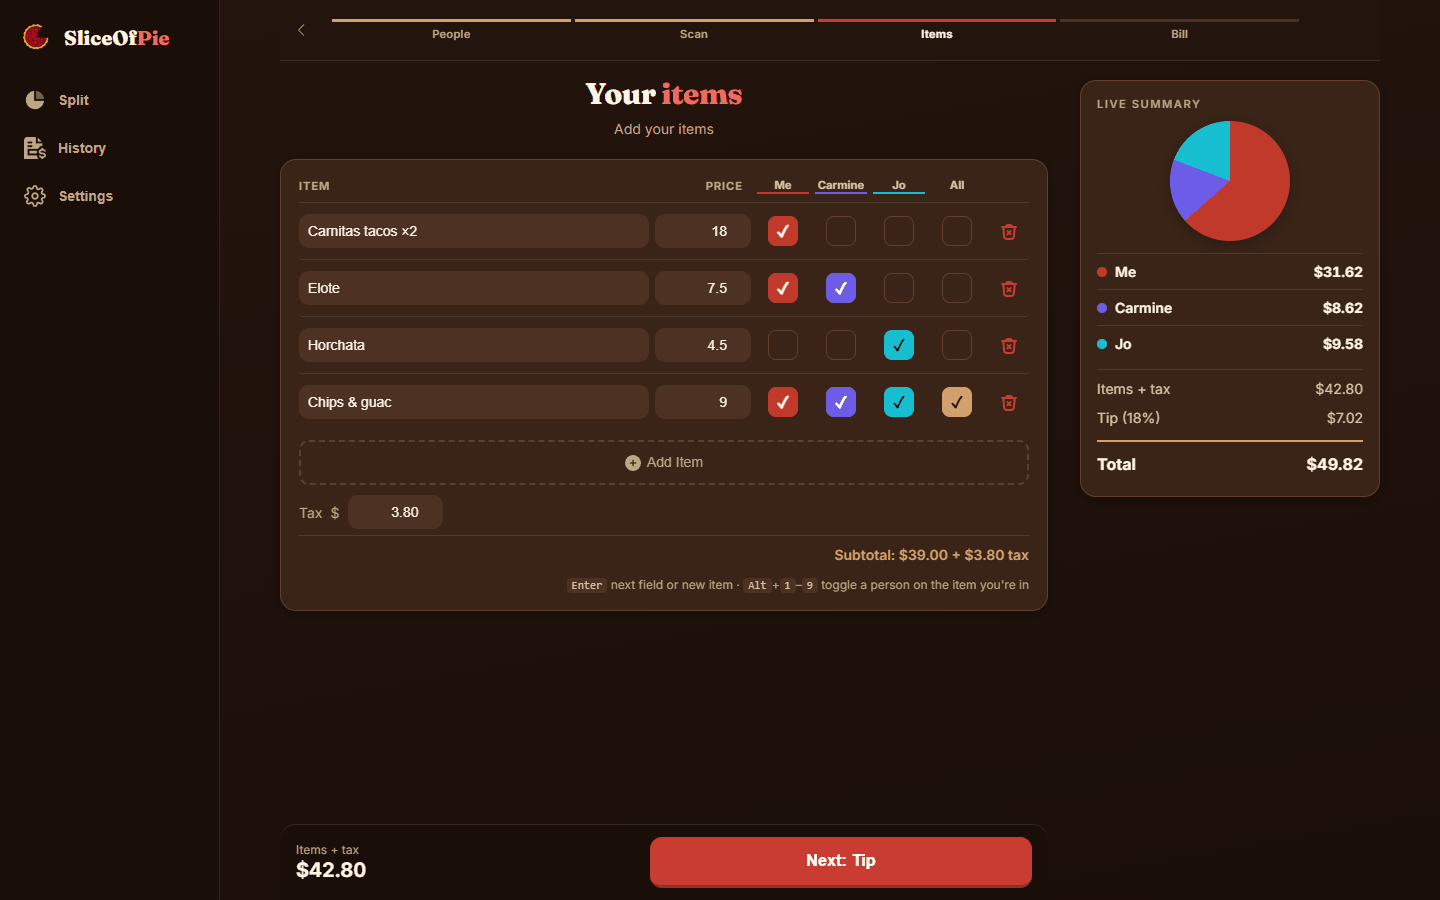
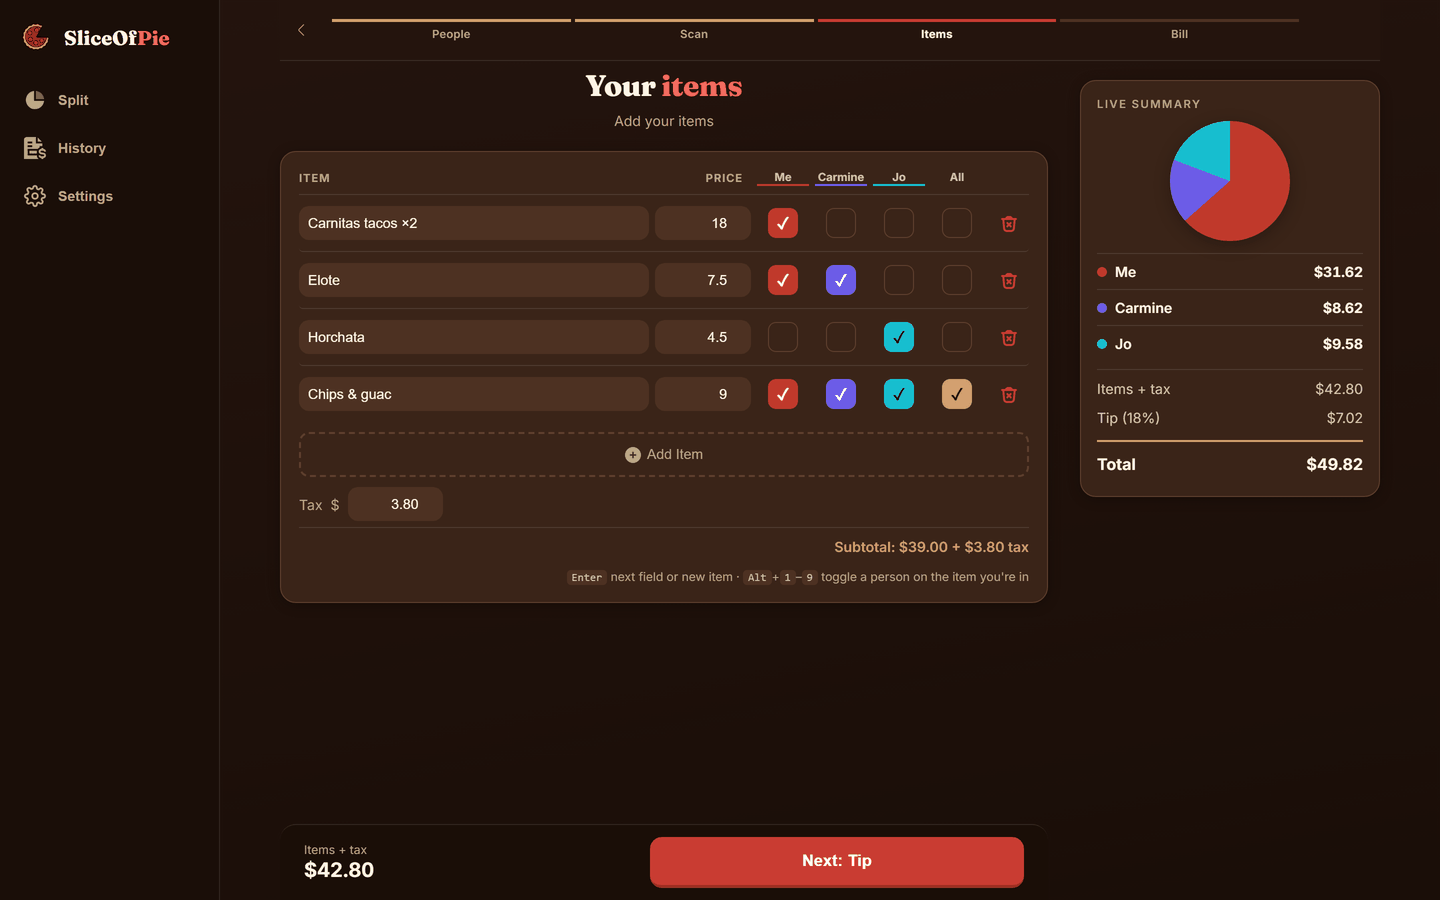
docs: new screenshots and demo GIF, badges, and an accurate privacy note
- Screenshots and the demo GIF retaken from the current app: the saved bill
  shows the Paid toggles, Share on a phone, and the desktop shot is
  captured at 2x for smoother text. Same sizes as before.
- CI, release and license badges at the top.
- Privacy: browsers that can't run PaddleOCR fall back to Tesseract.js,
  which downloads its code and language data from public CDNs; the photo
  still never leaves the device.
- Getting started opens localhost right after `npm run dev`; the test
  command's comment and the project tree are up to date.

diff --git a/README.md b/README.md
@@ -1,5 +1,9 @@
 # SliceOfPie
 
+[![CI](https://github.com/hansvidaure24/SliceOfPie/actions/workflows/ci.yml/badge.svg)](https://github.com/hansvidaure24/SliceOfPie/actions/workflows/ci.yml)
+[![Release](https://img.shields.io/github/v/release/hansvidaure24/SliceOfPie)](https://github.com/hansvidaure24/SliceOfPie/releases)
+[![License: MIT](https://img.shields.io/badge/license-MIT-blue)](LICENSE)
+
 Split bills without the awkward math. Snap a receipt, assign items, add tip, and share who owes what — all offline, all on-device.
 
 **[Live Demo](https://slice-of-pie-xi.vercel.app/)**
@@ -84,7 +88,7 @@ The parser, photo checks, OCR engines and live camera are separate chunks loaded
 ## Testing
 
 ```bash
-npm test            # Vitest: bill math, draft resume, receipt parsing, OCR fixtures, headers
+npm test            # Vitest: money math, storage, receipt parsing, updates, backups, headers
 npm run build
 npm run test:e2e    # Playwright: phone (Pixel 7) and desktop, against the built app
 ```
@@ -105,11 +109,11 @@ npm install
 npm run dev
 ```
 
+Then open `http://localhost:5173` in your browser.
+
 `npm run dev` and `npm run build` first run `scripts/fetch-ocr-assets.mjs`, which downloads the pinned OCR models (~13 MB, SHA-256 checked) into `public/ocr/`. That folder is gitignored.
 
 `npm run bench` opens an OCR benchmark page comparing model sets and Tesseract on synthetic receipt images (see `bench/README.md`).
-
-Open `http://localhost:5173` in your browser.
 
 ## Build
 
@@ -150,6 +154,7 @@ src/
     engine.ts      OcrEngine interface
     engine-paddle.ts     PaddleOCR engine: download, cache, worker client
     paddle.worker.ts     Runs PaddleOCR off the main thread
+    paddle-protocol.ts   Messages between the page and the worker
     engine-tesseract.ts  Tesseract.js fallback engine (loaded from the CDN on demand)
     rows.ts        Merge OCR text boxes into receipt lines (tilt-aware)
     parse.ts       OCR lines → items, subtotal, tax, tip, total, merchant, date
@@ -175,6 +180,10 @@ src/
   update.ts        When a new version of the app takes over
 test/              Vitest unit tests and receipt fixtures
 e2e/               Playwright end-to-end tests
+docs/              README images and the real-device test checklist
+scripts/           Fetches the pinned OCR models
+bench/             OCR benchmark page
+.github/           CI workflow and Dependabot
 public/
   *.svg            UI icons (CSS mask technique)
   fonts/           Inter and Fraunces (latin), served with the app
@@ -185,7 +194,7 @@ security-headers.json  Content-Security-Policy and other headers
 
 ## Privacy
 
-All data is stored locally on your device using IndexedDB and localStorage. Nothing is sent to any server. OCR runs entirely in the browser: the PaddleOCR model files are downloaded from this app's own server, and your receipt photo never leaves the device. See the in-app privacy note in Settings.
+All data is stored locally on your device using IndexedDB and localStorage, and nothing you enter is sent anywhere. OCR runs entirely in the browser, so your receipt photo never leaves the device. The PaddleOCR model files come from this app's own server. Browsers that can't run PaddleOCR fall back to Tesseract.js, which downloads its code and language data from public CDNs (jsDelivr and projectnaptha.com) the first time it's needed; the photo still stays on the device. See the in-app privacy note in Settings.
 
 ## License
 
